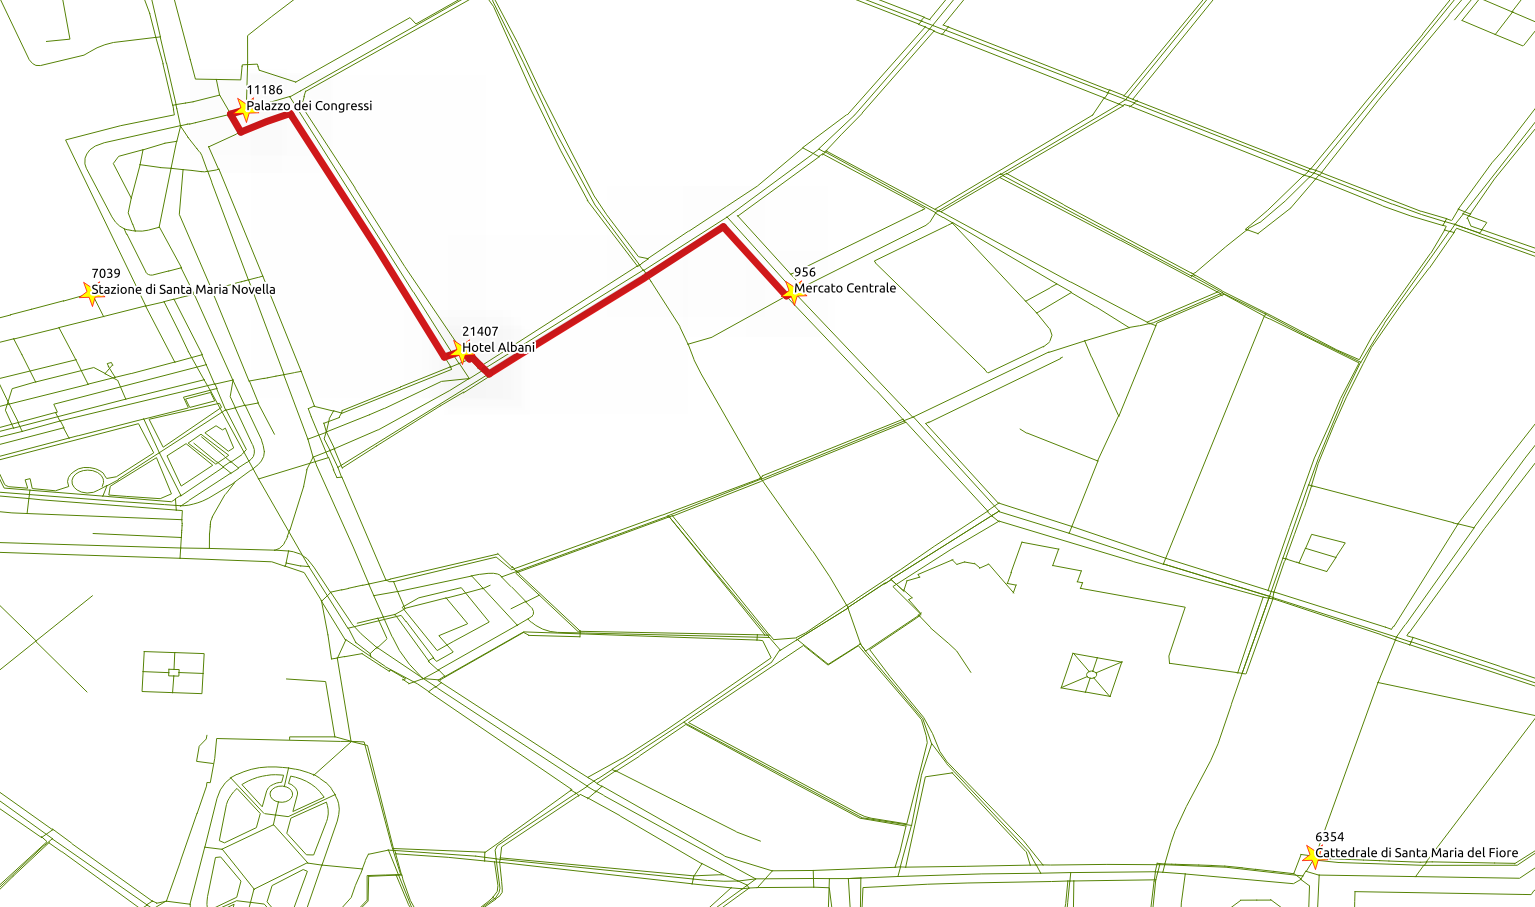
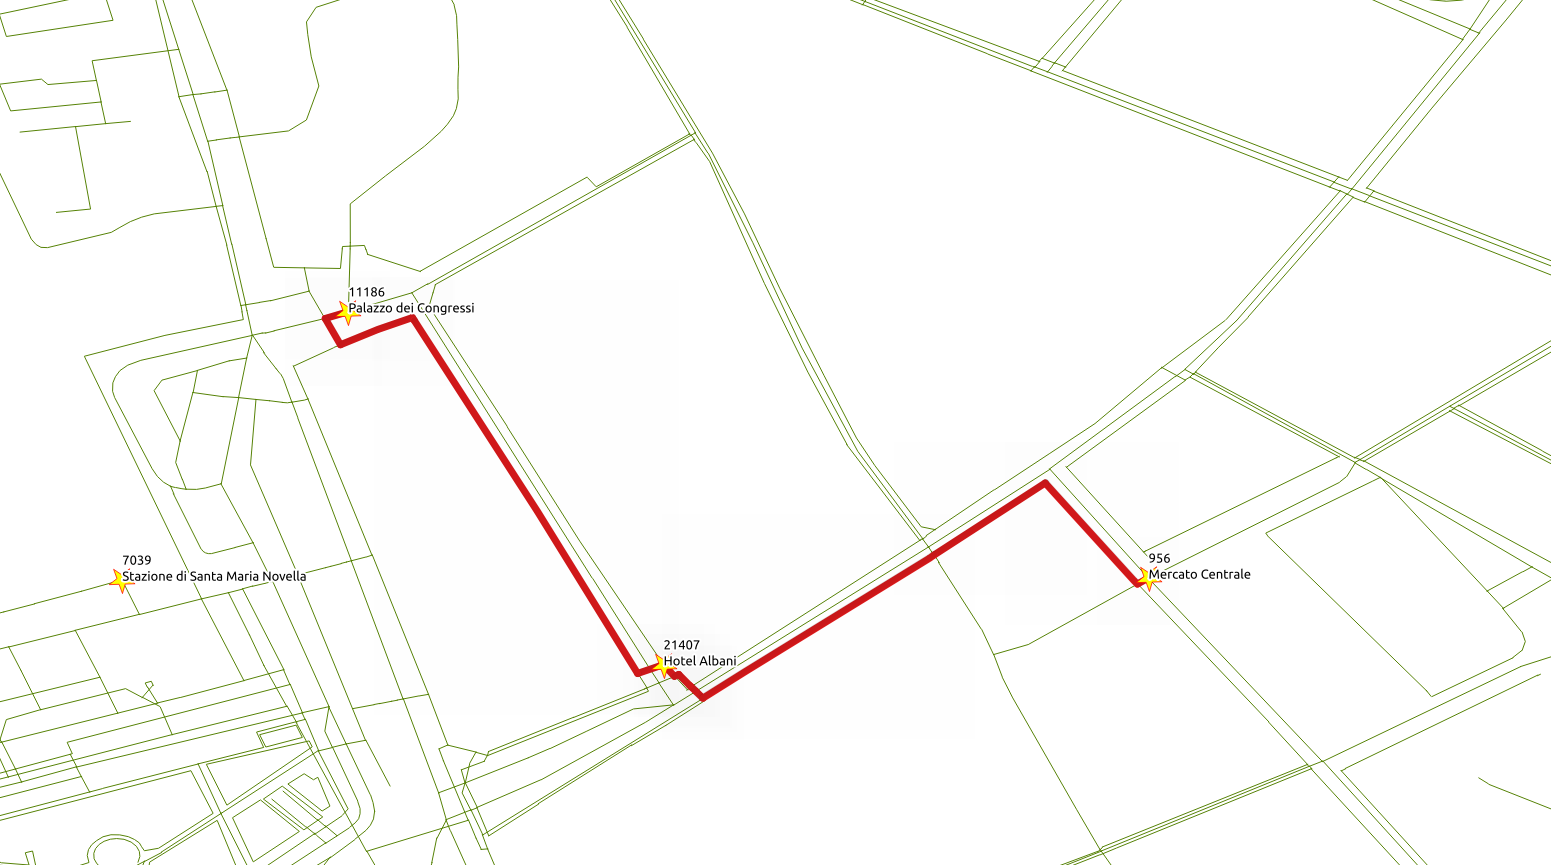
chapter 6

diff --git a/docs/basic/vehicle.rst b/docs/basic/vehicle.rst
@@ -89,15 +89,15 @@ Exercise 1: Vehicle routing - going
 
 .. rubric:: Problem:
 
-* From the "|place_3|" to the "|place_1|" by car.
+* From the "|place_1|" to the "|place_3|" by car.
 
 .. image:: images/chapter6/ad7.png
   :scale: 25%
-  :alt: From |place_3| to the |place_1| by car.
+  :alt: From |place_1| to the |place_3| by car.
 
 .. rubric:: Solution:
 
-* The vehicle is going from vertex |id_3| (line **10**) to |id_1| (line **11**).
+* The vehicle is going from vertex |id_1| (line **10**) to |id_3| (line **11**).
 * Use ``cost`` (line **6**) and ``reverse_cost`` (line **7**) columns, which are in unit ``degrees``.
 
 .. literalinclude:: ../scripts/basic/chapter_6/section-6.1.sql
@@ -117,15 +117,15 @@ Exercise 2: Vehicle routing - returning
 
 .. rubric:: Problem:
 
-* From "|place_1|" to the "|place_3|" by car.
+* From "|place_3|" to the "|place_1|" by car.
 
 .. image:: images/chapter6/ad8.png
   :scale: 25%
-  :alt: From |place_1| to the |place_3| by car.
+  :alt: From |place_3| to the |place_1| by car.
 
 .. rubric:: Solution:
 
-* The vehicle is going from vertex |id_1| (line **10**) to |id_3| (line **11**).
+* The vehicle is going from vertex |id_3| (line **10**) to |id_1| (line **11**).
 * Use ``cost`` (line **6**) and ``reverse_cost`` (line **7**) columns, which are in unit ``degrees``.
 
 .. literalinclude:: ../scripts/basic/chapter_6/section-6.1.sql
